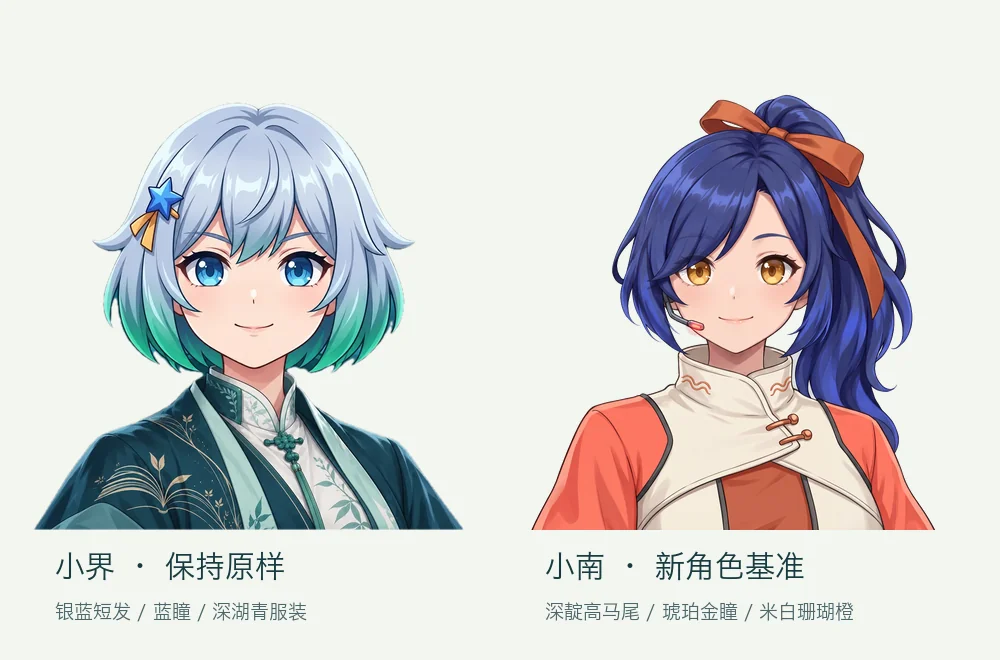
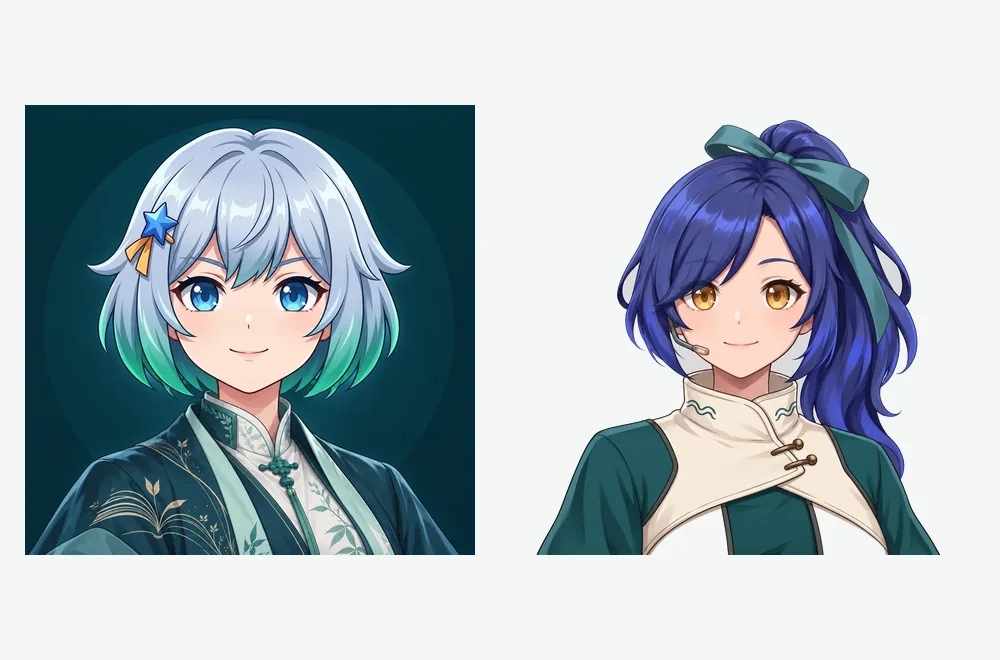
design: refresh Xiaonan comic character reference

diff --git a/skills/design/joyally-imagegen/references/comic-characters.md b/skills/design/joyally-imagegen/references/comic-characters.md
@@ -11,7 +11,7 @@
 | 角色 | 稳定辨识特征 | 参考图 |
 | --- | --- | --- |
 | 小界 · xiaojie | 银蓝短波波头、青绿发梢、蓝瞳、蓝色星形发夹、深湖青中式刺绣服装；保持既有造型 | [肖像](../assets/comic-characters/xiaojie-portrait.webp)、[全身](../assets/comic-characters/xiaojie-fullbody.webp) |
-| 小南 · xiaonan，v2 | 深靛蓝侧高马尾、赭橙宽发带、琥珀金瞳、单侧耳麦及珊瑚红录制灯；暖米白与珊瑚橙服装、深墨蓝长裤 | [肖像](../assets/comic-characters/xiaonan-portrait.webp)、[全身](../assets/comic-characters/xiaonan-fullbody.webp) |
+| 小南 · xiaonan，v3 | 深靛蓝侧高马尾、青绿宽发带、琥珀金瞳与单侧耳麦；暖米白与深海青绿服装、深墨蓝长裤 | [肖像](../assets/comic-characters/xiaonan-portrait.webp)、[全身](../assets/comic-characters/xiaonan-fullbody.webp) |
 
 ## 场景中的角色使用
 
